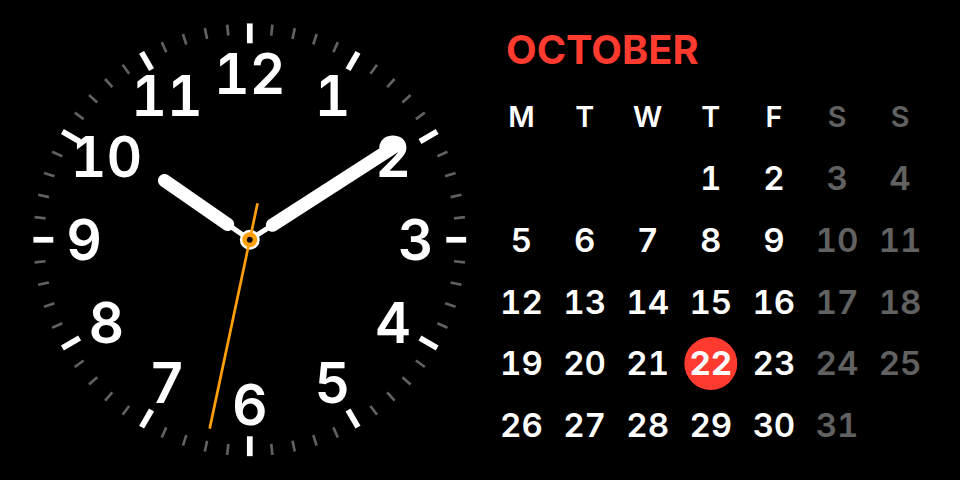
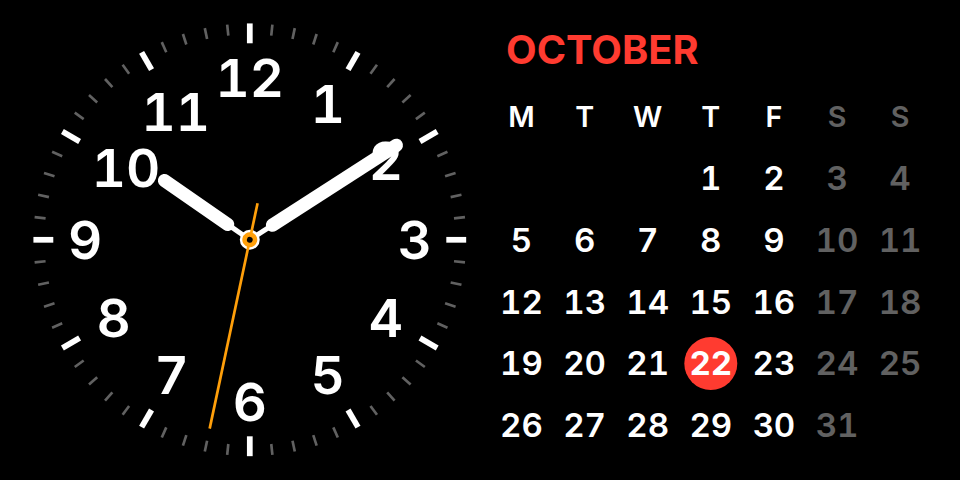
Keep two digit hours off the ticks on the round dial
The numerals sat on one circle by their centers, so the wide 10 and 11
reached the ticks. Each one now moves in by its own extent toward the
edge, keeping the same gap everywhere.

Claude-Session: https://claude.ai/code/session_016crPFkUhvEiQXmLNbAMGff

diff --git a/assets/standby/standby.js b/assets/standby/standby.js
@@ -205,8 +205,12 @@
         var angle = i * Math.PI / 30;
         if (i % 5 === 0) {
           ray(root, angle, 89, 98, 2.6, 'stroke');
-          var at = point(angle, 75);
-          text(root, at[0], at[1], String(i / 5 || 12), 25, 600, 'fill');
+          // Two digit numerals are twice as wide. Pull each one in by its own extent toward the ticks so every
+          // numeral keeps the same gap to them. Inter's digits are about 0.62 em wide and 0.72 em tall.
+          var label = String(i / 5 || 12), size = 24;
+          var reach = Math.abs(Math.sin(angle)) * label.length * size * 0.31 + Math.abs(Math.cos(angle)) * size * 0.36;
+          var at = point(angle, 89 - 7 - reach);
+          text(root, at[0], at[1], label, size, 600, 'fill');
         } else {
           ray(root, angle, 93, 98, 1.2, 'stroke dim');
         }

diff --git a/CHANGELOG.md b/CHANGELOG.md
@@ -1,5 +1,9 @@
 # Changelog
 
+## 1.1.1
+
+- Analog round: 10, 11 and 12 keep the same gap to the ticks as the single digit hours instead of touching them.
+
 ## 1.1.0
 
 - A sensor flickering around the night threshold, or a burst of Home Assistant updates, can no longer disable the plugin. Screensaver updates stay within Kiosk Satellite's budget of four a second, and the latest state is published a moment later.
